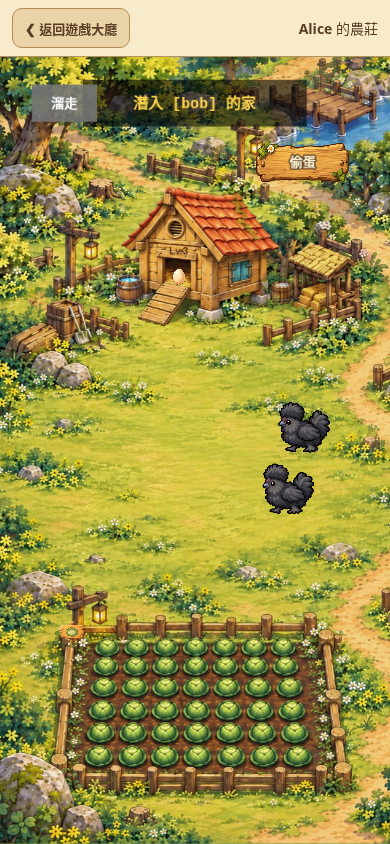
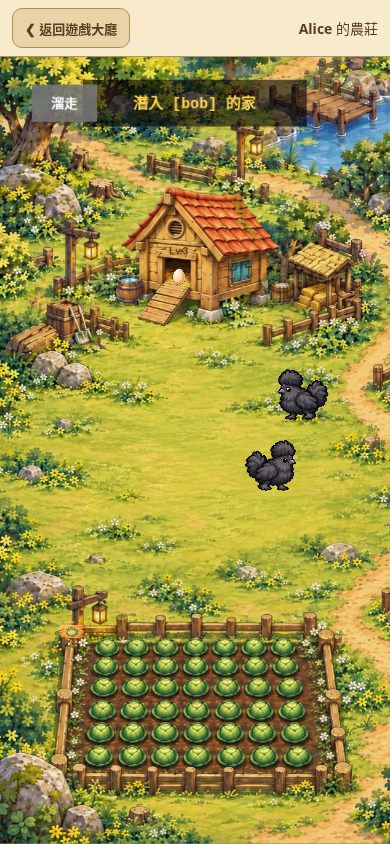
fix: restore direct hen tap theft interaction

Changed region(s): [[0.6154, 0.4313, 0.8615, 0.6161], [0.6462, 0.154, 0.8923, 0.2156]]

diff --git a/js/farm/VisitScene.js b/js/farm/VisitScene.js
@@ -1,6 +1,5 @@
 import { readGameContext } from '../game-context.js';
 import { confirmStealRequest, isUncertainSteal } from './steal-request.js';
-import { villageButton } from './village-ui.js';
 import {FARM_BACKEND_ENABLED,farmCommand,farmCommandOrLegacy,visitPayload,recordBattleHit,settleBackendBattle,farmNow,routeBackendChallenge,pendingStealCommand} from './backend-client.js';
 import { reportingCounterPatch } from './reporting-config.js';
 import { maybeStartGiant, giantBlocksFarm } from './giant-trigger.js';
@@ -89,12 +88,7 @@ export default class VisitScene extends Phaser.Scene {
 
         this.coop = addFarmCoop(this, () => this.askCleanTargetFarm());
 
-        this.coopEgg = addFarmEgg(this, () => this.showStealAction());
-        this.stealButton = villageButton(this, 310, 112, '偷蛋', () => this.attemptSteal(), 100).setDepth(40);
-        this.stealButton.label.setDepth(41).setText(pendingStealCommand(visitPayload(this)) ? '確認結果' : '偷蛋');
-        for (const event of ['pointerup', 'pointerout', 'pointerover']) this.stealButton.removeAllListeners(event);
-        const releaseStealButton = () => { if (!this.isStealing) this.stealButton.setDisplaySize(100, 46).clearTint(); };
-        this.stealButton.on('pointerup', releaseStealButton).on('pointerout', releaseStealButton);
+        this.coopEgg = addFarmEgg(this, () => this.attemptSteal(this.coopEgg));
 
         this.hensGroup = []; 
         this.rubbishGroup = this.add.group();
@@ -378,7 +372,7 @@ export default class VisitScene extends Phaser.Scene {
             newHen.on('pointerdown', () => {
                 // 同步放大偷蛋點擊時的比例
                 if (!this.isStealing) this.tweens.add({ targets: newHen, y: newHen.y - 15, scaleX: newHen.baseScale * 1.1, scaleY: newHen.baseScale * 0.9, duration: 100, yoyo: true });
-                this.showStealAction();
+                this.attemptSteal(newHen);
             });
 
             this.hensGroup.push(newHen);
@@ -675,13 +669,6 @@ export default class VisitScene extends Phaser.Scene {
         }
     }
 
-    showStealAction() {
-        if (this.isStealing || this.eggResultDialog) return;
-        this.stealButton.setTint(0xffe38a);
-        this.time.delayedCall(180, () => { if (this.stealButton?.active && !this.isStealing) this.stealButton.clearTint(); });
-        this.showFloatingText('點擊「偷蛋」取得雞蛋', '#FFD54F', 14, 260, 155);
-    }
-
     async sendStealRequest(action, payload) {
         const timing = this.stealTiming;
         timing.requestAt ??= performance.now();
@@ -701,7 +688,7 @@ export default class VisitScene extends Phaser.Scene {
         return result;
     }
 
-    async attemptSteal() {
+    async attemptSteal(target = this.coopEgg) {
         if (this.isStealing || this.eggResultDialog) return;
         const recovery = FARM_BACKEND_ENABLED ? pendingStealCommand(visitPayload(this)) : null;
         if (!recovery && (this.preparingGiant || this.preparingMole || this.preparingCobra || !this.myFarmData || !this.targetFarmData || (!FARM_BACKEND_ENABLED && !this.hasRolledEncounter))) {
@@ -746,8 +733,9 @@ export default class VisitScene extends Phaser.Scene {
         this.isStealing = true;
         const timing = this.stealTiming = { clickAt: performance.now(), token: this.visitToken };
         this.stealUncertain = !!recovery;
-        this.stealButton.setDisplaySize(95, 43.7).setTint(0xbda675);
-        this.stealButton.input.enabled = false;
+        this.stealTarget = target;
+        const previousTint = target?.isTinted ? [target.tintTopLeft, target.tintTopRight, target.tintBottomLeft, target.tintBottomRight] : null;
+        target?.setTint(0xbda675);
         requestAnimationFrame(() => { if (this.stealTiming === timing) timing.feedbackAt = performance.now(); });
         this.stealFeedback.setVisible(false);
         const slowHint = setTimeout(() => {
@@ -836,16 +824,19 @@ export default class VisitScene extends Phaser.Scene {
         } catch (error) {
             if (this.sys.isActive() && this.visitToken === token) {
                 this.stealUncertain = isUncertainSteal(error);
-                this.showFloatingText(this.stealUncertain ? '結果確認中，請點「確認結果」查回原交易' : `${error.message || error}`, '#F44336', 16, safeX, safeY);
+                this.showFloatingText(this.stealUncertain ? '結果確認中，請再點母雞確認原交易' : `${error.message || error}`, '#F44336', 16, safeX, safeY);
                 this.cameras.main.shake(300, 0.01);
             }
         } finally {
             clearTimeout(slowHint);
             if (this.visitToken === token) {
                 this.isStealing = false; this.stealFeedback.setVisible(false);
-                this.stealButton.setDisplaySize(100, 46).clearTint();
-                this.stealButton.input.enabled = true;
-                this.stealButton.label.setText(pendingStealCommand(visitPayload(this)) ? '確認結果' : '偷蛋');
+                if (target?.active) {
+                    if (previousTint) target.setTint(...previousTint);
+                    else target.clearTint();
+                }
+                this.stealTarget = null;
+                if (pendingStealCommand(visitPayload(this))) this.stealFeedback.setText('結果確認中，請再點母雞').setVisible(true);
             }
         }
     }

diff --git a/docs/FARM_STEAL_FLOW_OPTIMIZATION.md b/docs/FARM_STEAL_FLOW_OPTIMIZATION.md
@@ -1,5 +1,7 @@
 # 偷蛋流程優化與驗收
 
+> 操作更正：依使用者要求移除額外「偷蛋」按鈕，恢復點雞隻／雞蛋直接送出請求。即時回饋改為雞隻原跳動與點擊目標變色；同筆交易未確認時，再點母雞就是查回原交易。已從原村落導覽入口重驗成功、慢請求、連點及跨重新整理的原收據確認。以下前後量測表保留按鈕版本 `2c4b630` 的歷史數據，沒有將其冒充本次點雞操作的新量測。
+
 本次只修改前端操作、結果呈現與原交易的逾時確認。沒有修改 Cloud Functions、Rules、冷卻時間、守衛犬機率、扣蛋、金幣、任務或排行榜規則；沒有執行正式部署或操作正式玩家資料。
 
 ## 流程與耗時盤點
@@ -12,9 +14,9 @@
 
 ## 玩家操作
 
-沿用「村落 → 公開村落一覽 → 選擇村落 → 對方雞舍」。拜訪場景加入使用現有木牌元件的明確「偷蛋」按鈕。雞隻或雞蛋圖示點擊只提示這個操作，避免觸碰場景就發生經濟交易。
+沿用「村落 → 公開村落一覽 → 選擇村落 → 對方雞舍」。拜訪場景不再有額外偷蛋按鈕，點擊雞隻或雞蛋圖示即執行偷蛋，不需要第二次操作或確認。
 
-點下按鈕在同一次事件中縮至 0.95、變色並停用該按鈕，立即啟動請求，不停用整個場景輸入。500 ms 內不顯示等待文字；超過才顯示「正在偷蛋…」。伺服器結果回傳即清除提示，成功且有蛋才開既有結果彈窗。
+點擊雞隻保留原跳動效果，點擊目標立即變色並啟動請求；`isStealing` 防止等待期間再次送出偷蛋，不停用整個場景輸入。請求結束恢復原本的顏色。500 ms 內不顯示等待文字；超過才顯示「正在偷蛋…」。伺服器結果回傳即清除提示，成功且有蛋才開既有結果彈窗。
 
 守衛犬攔截、冷卻、沒有蛋、倉庫滿及失敗保留原提示；怪物仍須先完成戰鬥。結果視窗才按照既有共用遮罩阻擋場景操作。確定與關閉共用 UI 清理，留在原本拜訪的村落，不再執行交易。
 
@@ -24,7 +26,7 @@
 
 新流程對不明確的逾時／連線錯誤顯示「結果確認中」，最多自動確認一次，使用相同 action、payload 與 requestId。這是既有 callable 的冪等重播，沒有新增一筆交易 ID；若第一次尚未提交，原交易仍可能由這次確認完成，並非獨立唯讀查詢。
 
-兩次都無法確認時停止自動確認，按鈕改成「確認結果」。再次操作或正常重新整理再拜訪此村落，先找回尚未確認的請求，跳過可能已因原交易更新的前端冷卻／空蛋檢查，但仍接受後端全部驗證。明確拒絕才釋放原 ID；不可自行清除 pending storage 再當新交易重試。偷蛋的 `functions/deadline-exceeded`、未知連線結果也保留原 ID；離開場景或切換帳號／群組就停止自動確認，不在新的身分下重送。
+兩次都無法確認時停止自動確認，顯示「結果確認中，請再點母雞」。再次點母雞或正常重新整理再拜訪此村落，先找回尚未確認的請求，跳過可能已因原交易更新的前端冷卻／空蛋檢查，但仍接受後端全部驗證。明確拒絕才釋放原 ID；不可自行清除 pending storage 再當新交易重試。偷蛋的 `functions/deadline-exceeded`、未知連線結果也保留原 ID；離開場景或切換帳號／群組就停止自動確認，不在新的身分下重送。
 
 限制：sessionStorage 屬於單一瀏覽器分頁；關閉分頁、清除瀏覽器資料或換裝置，無法用目前介面查詢另一分頁遺留的未知收據。若要跨裝置主動查回最後一筆交易，需要另外增加伺服器查詢入口。本次沒有假造該能力，也沒有用新的交易自動補發。
 
@@ -69,14 +71,14 @@
 - 正常成功、同名／同品種不同個體的來源版型、來源缺少、守衛犬攔截、空蛋、交易拒絕、彈窗建立失敗、重複開關、長明細捲動與重新整理均通過。
 - 850 ms 慢請求：前 180 ms 無等待文字，超過 500 ms 顯示提示，其他場景輸入仍可用；快速連點只發一筆偷蛋請求。
 - 真正客戶端 deadline 縮短至 100 ms（僅測試）：第一筆已提交後延遲 350 ms 回覆，確認請求使用同一 ID 讀到同一收據，入庫與排行只增加一次；舊回覆稍後到達也不重開彈窗。
-- 連續兩次 deadline：保留 ID／確認結果按鈕；重新整理並由原導覽拜訪同一村落，查回原收據，沒有多扣蛋或多發蛋。
+- 連續兩次 deadline：保留 ID／再點母雞確認原結果的提示；重新整理並由原導覽拜訪同一村落，查回原收據，沒有多扣蛋或多發蛋。
 - 阻擋偷蛋彈窗 PNG 載入時，實際偷蛋仍能顯示總數與明細，確定／關閉可操作；釋放下載後圖片正常顯示，不等待 8 秒素材逾時。
-- [拜訪場景的明確偷蛋按鈕](verification/steal-flow/action-390.png)。
+- [拜訪場景（已移除額外按鈕）](verification/steal-flow/action-390.png)。
 - [原遊戲入口的手機尺寸截圖](verification/steal-flow/mobile-390.png)。截圖為隔離環境，非手機真機或正式玩家資料。
 
 ## 修改檔案
 
-- `js/farm/VisitScene.js`：明確操作、按鈕回饋、延遲提示、同筆交易確認與分段計時。
+- `js/farm/VisitScene.js`：雞隻點擊、目標回饋、延遲提示、同筆交易確認與分段計時。
 - `js/farm/steal-request.js`：不明結果分類及一次冪等確認。
 - `js/farm/backend-client.js`：保留 deadline 請求 ID，找回本村落未知結果。
 - `js/farm/egg-result-ui.js`、`js/farm/steal-result-ui.js`：偷蛋使用立即建立的共用彈窗，圖片非阻塞載入。
